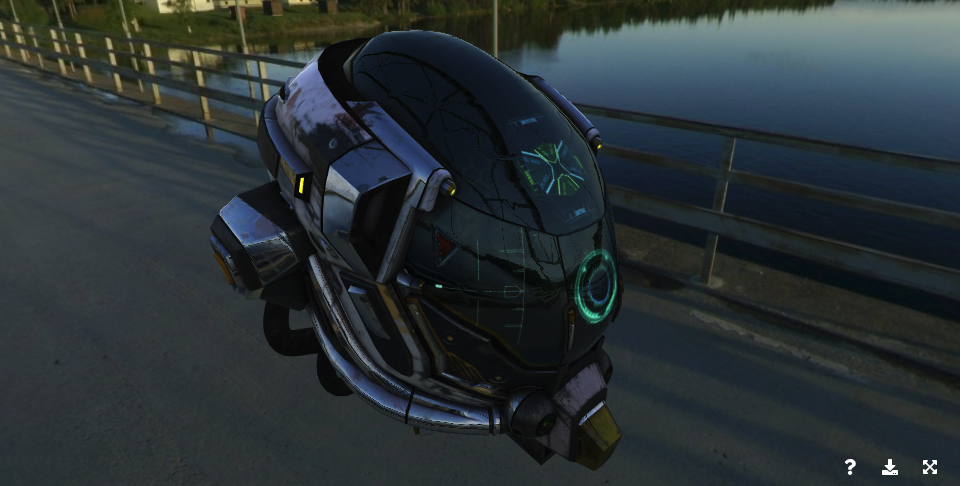
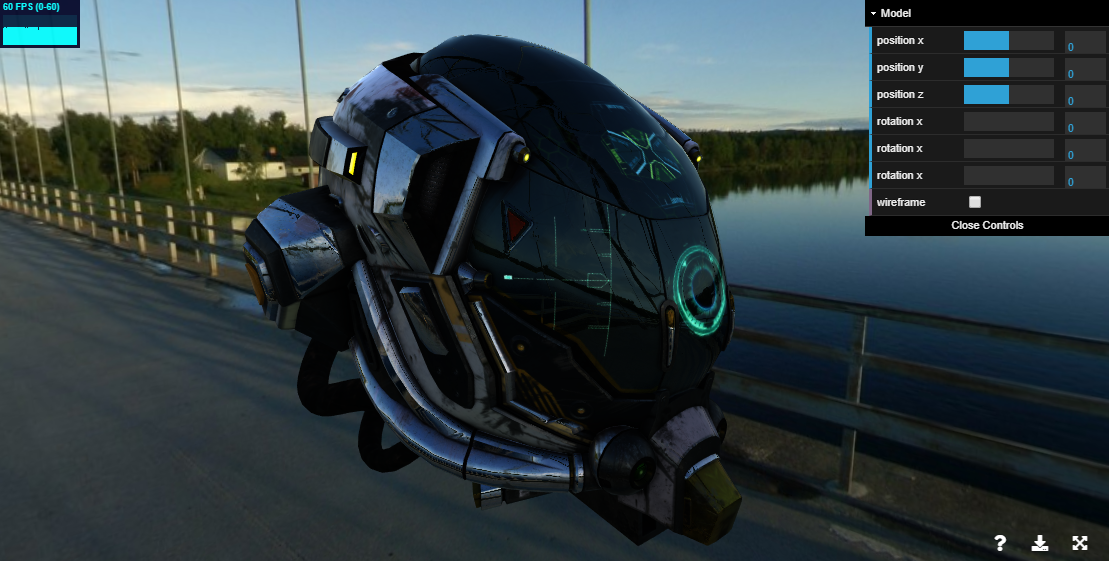
[wip] dat.gui

diff --git a/src/mixins/base-mixin.vue b/src/mixins/base-mixin.vue
@@ -284,33 +284,47 @@
 
         if(!this.datgui) return;
 
+        if(this.gui !== null) this.gui.destroy();
+
         this.gui = new dat.GUI({autoPlace: false});
         this.$refs.datgui.appendChild(this.gui.domElement);
 
         let parameters =
           {
-            position: { x: 0, y: 0, z: 0 },
-            rotation: { x: 0, y: 0, z: 0 },
+            model: {
+              position: { x: 0, y: 0, z: 0 },
+              rotation: { x: 0, y: 0, z: 0 },
+              wireframe: false
+            }
           };
 
-        let _folder1 = this.gui.addFolder('Position');
-        let modelX = _folder1.add( parameters.position, 'x' ).min(-200).max(200).step(1).listen();
-        let modelY = _folder1.add( parameters.position, 'y' ).min(-200).max(200).step(1).listen();
-        let modelZ = _folder1.add( parameters.position, 'z' ).min(-200).max(200).step(1).listen();
+        let _folder1 = this.gui.addFolder('Model');
+        let modelX = _folder1.add( parameters.model.position, 'x' ).name('position x').min(-200).max(200).step(1).listen();
+        let modelY = _folder1.add( parameters.model.position, 'y' ).name('position y').min(-200).max(200).step(1).listen();
+        let modelZ = _folder1.add( parameters.model.position, 'z' ).name('position z').min(-200).max(200).step(1).listen();
 
         modelX.onChange(value =>  this.object.position.x = value * Math.PI / 180 );
         modelY.onChange(value =>  this.object.position.y = value * Math.PI / 180 );
         modelZ.onChange(value =>  this.object.position.z = value * Math.PI / 180 );
 
-        let _folder2 = this.gui.addFolder('Rotation');
-        let modelRX = _folder2.add( parameters.rotation, 'x' ).min(0).max(360).step(1).listen();
-        let modelRY = _folder2.add( parameters.rotation, 'y' ).min(0).max(360).step(1).listen();
-        let modelRZ = _folder2.add( parameters.rotation, 'z' ).min(0).max(360).step(1).listen();
-        _folder2.open();
+        let modelRX = _folder1.add( parameters.model.rotation, 'x' ).name('rotation x').min(0).max(360).step(1).listen();
+        let modelRY = _folder1.add( parameters.model.rotation, 'y' ).name('rotation x').min(0).max(360).step(1).listen();
+        let modelRZ = _folder1.add( parameters.model.rotation, 'z' ).name('rotation x').min(0).max(360).step(1).listen();
 
         modelRX.onChange(value =>  this.object.rotation.x = value * Math.PI / 180 );
         modelRY.onChange(value =>  this.object.rotation.y = value * Math.PI / 180 );
         modelRZ.onChange(value =>  this.object.rotation.z = value * Math.PI / 180 );
+
+        let modelWireframe = _folder1.add( parameters.model, 'wireframe' ).name('wireframe').listen();
+        modelWireframe.onChange(value =>  {
+          this.object.traverse( child => {
+            if(child.isMesh){
+              child.material.wireframe = value;
+            }
+          })
+        } );
+
+        _folder1.open();
 
       },
       updateModel() {
